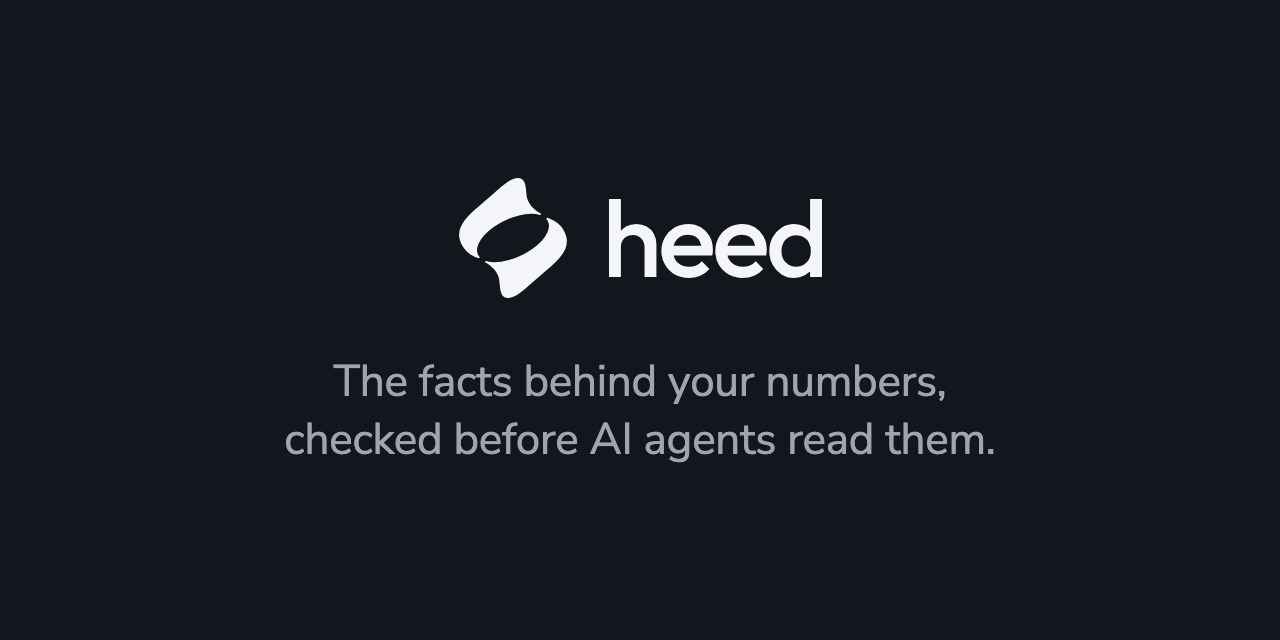
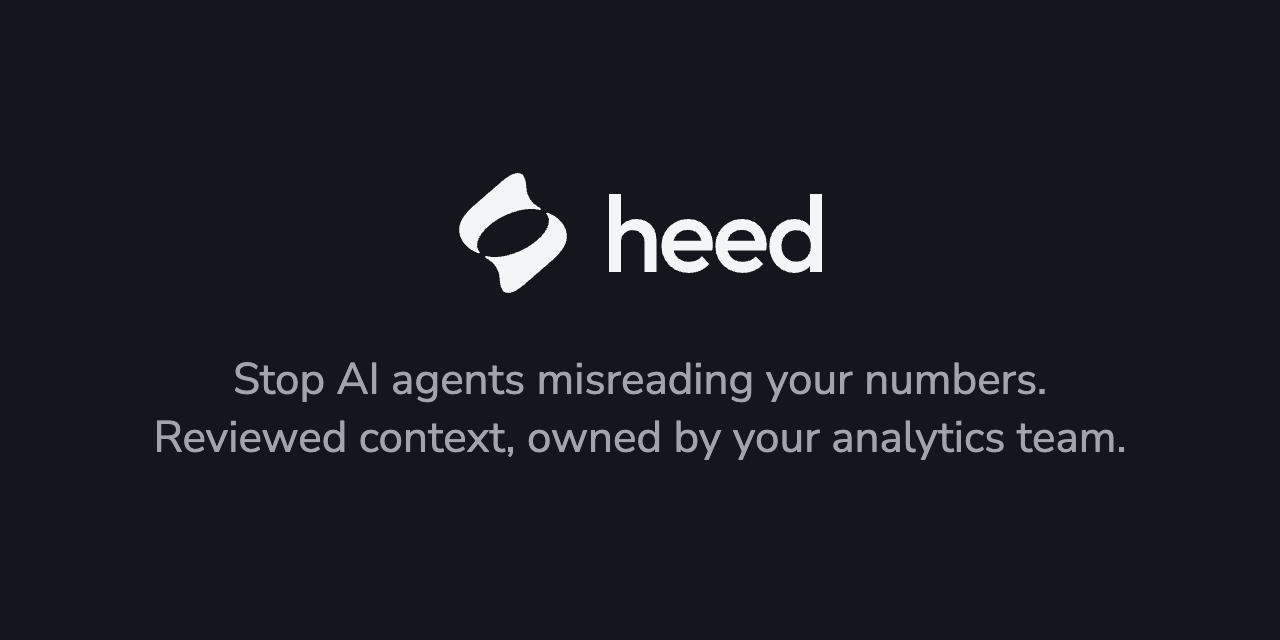
docs: make the repository ready to be found and tried
Rewrite the README's first screen, proof, quick start and status, lead
CONTRIBUTING with the connector guide, add a connector issue template,
and replace the social preview. The quick start pulls the published
images through compose.images.yaml, because building them takes far
longer than the rest of the first start.

diff --git a/README.md b/README.md
@@ -5,16 +5,16 @@
   <img alt="Heed" src="docs/images/heed-lockup-light.svg" height="56">
 </picture>
 
-### The context behind your numbers, checked before AI agents read them.
+### Stop AI agents misreading your numbers.
 
-Heed is a library of checked context that AI agents read before they answer questions about your data.<br>
-People write down what the numbers don't show, the owner of each domain checks it and publishes it,<br>
-and agents get only what was published, each item with its source.
+Heed is a reviewed context layer for analytics teams and their agents.<br>
+The people who own the data write down what the numbers don't show,<br>
+and agents read it over MCP before they answer, with its source and its owner.
 
-<!-- Live demo: when the hosted mock site is up, put this at the start of the link row below:
+<!-- Live demo: when the hosted demo is up, put this at the start of the link row below:
 [**Live demo**](https://LIVE-DEMO-ADDRESS) &nbsp;·&nbsp; -->
 
-[Quick start](#quick-start) &nbsp;·&nbsp; [How it works](#how-it-works) &nbsp;·&nbsp; [Docs](#docs) &nbsp;·&nbsp; [Connect Claude Code](#connect-claude-code) &nbsp;·&nbsp; [Contributing](CONTRIBUTING.md)
+[Quick start](#quick-start) &nbsp;·&nbsp; [Proof](#proof) &nbsp;·&nbsp; [How it works](#how-it-works) &nbsp;·&nbsp; [Status](#status) &nbsp;·&nbsp; [Docs](#docs) &nbsp;·&nbsp; [Contributing](CONTRIBUTING.md)
 
 [![License: Apache-2.0](https://img.shields.io/badge/license-Apache--2.0-blue.svg)](LICENSE)
 [![Node 26](https://img.shields.io/badge/node-26-339933.svg)](.nvmrc)
@@ -28,9 +28,9 @@ and agents get only what was published, each item with its source.
 
 ## Why Heed
 
-Company data shows what happened to a number. It rarely shows why. A market closed, a tool changed how it
-counts, a partner's data came in late. People know this. An agent can't see it, so it guesses, and a guess can
-sound sure of itself.
+Your metric has a definition. Why it moved doesn't. A market closed, a tool changed how it counts, a
+partner's data came in late. Your analytics team knows this. An agent reading the warehouse or the
+semantic layer can't see it, so it guesses, and a guess can sound sure of itself.
 
 > Orders in Norway fell to almost nothing after 4 August.
 >
@@ -40,6 +40,20 @@ sound sure of itself.
 
 _An illustration of the difference, not a transcript._ The demo data belongs to an invented outdoor-gear
 retailer that sells in twelve real countries.
+
+## Proof
+
+Each of these is held by a test in this repository, so you can read it, run it, or try it on the demo.
+
+| What Heed promises                         | What shows it                                                                                                                                                                                                 |
+| ------------------------------------------ | ------------------------------------------------------------------------------------------------------------------------------------------------------------------------------------------------------------- |
+| Agents read only what an owner published   | The database role that serves agents can't read the table of versions, drafts included: `permission denied` ([`tests/integration/mcp.test.ts`](tests/integration/mcp.test.ts))                                |
+| The answer above is real                   | CI starts the demo, asks that question in a browser and expects **Checked** with the customs rule ([`tests/e2e-seed/demo.spec.ts`](tests/e2e-seed/demo.spec.ts))                                              |
+| The right context gets delivered           | All 53 questions of the [golden set](db/seed/golden-set.yml) run in CI with no model, and each must get the items it expects ([`tests/integration/golden-set.test.ts`](tests/integration/golden-set.test.ts)) |
+| Nothing is filled in when nothing is known | Every answer starts with one of six [answer lines](docs/help/answer-lines.md). Golden questions with nothing written down must come back Not found                                                            |
+
+Heed doesn't yet have a measured number for how much better an agent answers with it than without it.
+[Status](#status) says what is and isn't done.
 
 ## How it works
 
@@ -53,23 +67,33 @@ retailer that sells in twelve real countries.
 4. **Gaps come back.** A question that keeps finding nothing becomes a Not found card in the owner's Inbox,
    counted by topic, never by who asked.
 
-Heed holds context, not numbers. [Cube](https://cube.dev) defines your metrics and returns the figures; a context
-item points to them.
+Heed holds context, not numbers. Your semantic layer defines the metrics and returns the figures; a context item
+points to them. Heed reads definitions from [Cube](docs/connectors/cube.md) and
+[dbt MetricFlow](src/connectors/dbt-metricflow/README.md), and turns documents from Markdown in Git and Google
+Drive into suggestions for owners. [Writing a connector](docs/connectors/authoring.md) adds another tool.
 
 ## Quick start
 
-You need Docker, or Node 26 with npm.
+You need Docker:
 
 ```sh
 git clone https://github.com/Fredehagelund92/heed.git && cd heed
-docker compose up        # the service with demo data: http://localhost:8080
-npm ci && npm run dev    # or the app on mock data, no database: http://localhost:5173
+docker compose -f compose.yaml -f compose.images.yaml up
 ```
 
-Both open on the demo of an invented outdoor-gear retailer: people, domains and context items, with their
-history, suggestions waiting for review and what agents asked over the past weeks. Sign in as any demo
-person: Jon Abara owns Sales, Ravi Kapoor is the admin. Nothing leaves your computer, and no AI service is
-called. Stop with Ctrl+C; `docker compose down --volumes` also removes the data.
+The first start pulls the published images and loads the demo, which takes about two minutes. Then open
+<http://localhost:8080> and sign in as any demo person: Jon Abara owns Sales, Ravi Kapoor is the admin.
+
+The demo is an invented outdoor-gear retailer: people, domains and context items, with their history,
+suggestions waiting for review and what agents asked over the past weeks. Nothing leaves your computer, and no
+AI service is called. Stop with Ctrl+C; `docker compose down --volumes` also removes the data.
+
+Two other ways in:
+
+- **No Docker, under a minute.** With Node 26, `npm ci && npm run dev` opens the app on mock data at
+  <http://localhost:5173>. It has no database and no MCP server.
+- **The code in this checkout.** `docker compose up` builds the images here, which takes far longer. The
+  published images are the latest release, so use this for anything merged since.
 
 To choose how to run Heed for your own team, see [Where to run Heed](docs/where-to-run.md). To keep it running
 here, back it up, upgrade it or roll an upgrade back, see [Self-host Heed on one computer](docs/self-hosting.md).
@@ -81,7 +105,7 @@ sign-in: see [Run the image in production mode](docs/operations.md#run-the-image
 
 ### Connect Claude Code
 
-With the service running (`docker compose up`):
+With the demo running:
 
 ```sh
 claude mcp add --transport http heed http://localhost:3000/mcp
@@ -99,7 +123,8 @@ demo person and **Allow**. Ask _"How did orders in Norway change in October 2026
 
 ### Use your own data
 
-Heed reads metric and dimension names from a [Cube](https://cube.dev) model, as files, and never writes to it:
+Heed reads metric and dimension names from your semantic layer, and never writes to it. For a
+[Cube](https://cube.dev) model, name its folder:
 
 ```sh
 CUBE_MODEL_DIR=/path/to/your/cube/model docker compose up
@@ -109,6 +134,10 @@ With your own model Heed starts empty, with no demo data. Sign in as Ravi Kapoor
 `db/seed/people.local.yml`, and add your domains in Settings, under Domains and owners. On a Mac the
 folder must be one Docker shares, or Heed refuses to start and says so. See
 [the Cube connector](docs/connectors/cube.md).
+
+For dbt, Heed reads the `semantic_manifest.json` that `dbt parse` writes, from a link, object storage, a Git
+repository or a folder: see [the dbt MetricFlow connector](src/connectors/dbt-metricflow/README.md). It needs
+this checkout, which is ahead of the latest release.
 
 ## What you get
 
@@ -141,8 +170,8 @@ folder must be one Docker shares, or Heed refuses to start and says so. See
 - **Gaps and saved questions.** Questions that found nothing are counted by topic, so people write what's
   missing. Saved questions are answered again after every change, so a publish that makes an answer worse is
   seen at once. Heed never records who asked.
-- **Stays in step with Cube.** When a definition an item relies on changes or disappears, the item is marked for
-  its owner to check.
+- **Stays in step with your semantic layer.** When a definition an item relies on changes or disappears, the item
+  is marked for its owner to check.
 
 ## How it fits together
 
@@ -155,7 +184,7 @@ folder must be one Docker shares, or Heed refuses to start and says so. See
 | A wiki or shared document        | Agents can't see it, or read a page nobody has checked in a year | Short, dated context with a source and an owner, delivered over MCP            |
 | Notes in `CLAUDE.md` or a prompt | One copy per tool, no review, no history                         | One library for every agent, with review, checks and a history                 |
 | Search over your documents       | Returns text that looks like the question, with no owner or date | Returns the context that applies to the metric, market and dates, or says none |
-| Your semantic layer              | Defines the number, not why it moved                             | Sits beside it: Cube gives the figure, Heed gives the context                  |
+| Your semantic layer              | Defines the number, not why it moved                             | Sits beside it: the layer gives the figure, Heed gives the context             |
 
 Heed is not a data tool: it stores no numbers. When an admin switches figures on for an integration, Ask reads
 one figure from it when someone asks, and keeps it nowhere. It is not a wiki: every context item is short, has a
@@ -174,9 +203,12 @@ source, and its owner checks it. It doesn't watch people: it counts questions by
 |                                                         | [Develop Heed](docs/development.md) and [its tests](docs/testing.md)                         |
 |                                                         | [Security, scanning and the restore drill](docs/security.md)                                 |
 
-The help pages are also the app's own Docs, at `/docs`, and a static site (`npm run docs:build`).
-[Requirements](docs/requirements.md) says what Heed must do, and [Writing a connector](docs/connectors/authoring.md)
-how to read another source.
+<!-- Docs site: when it is published, add this line:
+Read these as a site at [fredehagelund92.github.io/heed](https://fredehagelund92.github.io/heed/). -->
+
+The help pages are also the app's own Docs, at `/docs`, and [the docs site](apps/docs/README.md), which isn't
+published yet: `npm run site:dev` runs it on your computer. [Requirements](docs/requirements.md) says what Heed must
+do, and [Writing a connector](docs/connectors/authoring.md) how to read another source.
 
 The [documentation index](docs/README.md) lists every page. The [product page](docs/product.md) and the
 [design contract](docs/design/design-contract.md) say what the Heed v1 web app is and how it looks.
@@ -185,22 +217,39 @@ The clickable mockup is the design the app was built from, kept as a reference i
 
 ## Status
 
-Heed is **pre-1.0**. Expect rough edges and breaking changes.
+Heed is **pre-1.0**, and [v0.1.0](https://github.com/Fredehagelund92/heed/releases/tag/v0.1.0) is its first release.
+It is for trying on one computer, not for production use. Expect rough edges and breaking changes.
 
-- It runs on one computer, or on one container host. `docker compose up` uses the demo sign-in: anyone can be an
-  admin, so keep it off the internet. Company sign-in with OpenID Connect is in
-  [Run the image in production mode](docs/operations.md#run-the-image-in-production-mode) and
-  [How AI sign-in works](docs/ai-sign-in.md).
-- Agents on your computer connect today. Agents that run in the cloud need Heed at an address on the internet;
-  see [Connect an agent](docs/help/connect-an-agent.md).
-- The demo runs on scripted mock models and spends nothing. Ask's words and the test runs can use Anthropic,
-  directly or through Vercel's AI Gateway, chosen by an admin.
+**Works today**
+
+- The whole loop on the demo: write, review, publish, read over MCP, and gaps back to the owner.
+- Definitions from Cube and dbt MetricFlow, documents from Markdown in Git and Google Drive, and agents on your
+  computer over MCP, such as Claude Code.
+- Company sign-in with OpenID Connect ([Run the image in production mode](docs/operations.md#run-the-image-in-production-mode)
+  and [How AI sign-in works](docs/ai-sign-in.md)).
+
+**Not there yet**
+
+- **No measured result.** Heed has an [evaluation runner](docs/evaluations.md) and a golden set, but no published
+  figure for how much better an agent answers with Heed than without it.
+- **No hosted demo and no published docs site.** Run the demo yourself, and read the docs in this repository.
+- **Not tested on a named cloud host.** CI starts the images in production mode, but nobody has yet run them on AWS,
+  Railway or Fly ([Where to run Heed](docs/where-to-run.md)).
+- **Agents in the cloud** need Heed at an address on the internet: see [Connect an agent](docs/help/connect-an-agent.md).
+
+**Good to know**
+
+- The Docker demo uses the demo sign-in: anyone can be an admin, so keep it off the internet.
+- The demo runs on scripted mock models and spends nothing. Ask's words and the test runs can use Anthropic, directly
+  or through Vercel's AI Gateway, chosen by an admin.
 - Built with TypeScript on Node 26, Fastify, PostgreSQL 18, React 19 and the official MCP SDK.
 
 ## Contributing
 
-Open an issue first for anything bigger than a small fix, then send a pull request. [CONTRIBUTING.md](CONTRIBUTING.md)
-says how, and `npm run check` runs the type check, lint, format check and unit tests. Please follow the
+**The most useful change you can send is a connector.** [Writing a connector](docs/connectors/authoring.md) is
+written so a coding agent can follow it from top to bottom, and [CONTRIBUTING.md](CONTRIBUTING.md) has the prompt
+to start from. For anything else, open an issue first if it is bigger than a small fix, then send a pull request.
+`npm run check` runs the type check, lint, format check and unit tests. Please follow the
 [code of conduct](CODE_OF_CONDUCT.md).
 
 ## Security

diff --git a/CONTRIBUTING.md b/CONTRIBUTING.md
@@ -1,10 +1,46 @@
 # Contributing
 
-Thanks for helping. This page says how to send a change, then how to write code that passes the
-checks.
+Thanks for helping. This page says where you can help, how to send a change, then how to write
+code that passes the checks.
 
 Everyone here follows the [code of conduct](CODE_OF_CONDUCT.md). Found a security problem? Don't
 open an issue: [SECURITY.md](SECURITY.md) says how to tell us privately.
+
+## Ways to help
+
+1. **Add a connector.** This is the most useful change you can send. A connector teaches Heed to
+   read a tool your team uses, and it stays inside one folder. [Writing a connector](docs/connectors/authoring.md)
+   is written so a coding agent can follow it from top to bottom: see
+   [Write a connector with a coding agent](#write-a-connector-with-a-coding-agent).
+2. **Pick up an issue.** Look for **good first issue** and **help wanted**:
+   [Finding something to work on](#finding-something-to-work-on) says what they mean.
+3. **Try the demo and tell us what confused you.** Run the
+   [Quick start](README.md#quick-start), then open an issue. A step that didn't work, or a word you
+   had to guess, counts as a bug.
+4. **Fix the docs.** Every page is Markdown in `docs`. If a page is wrong, send the fix. A small fix
+   needs no issue.
+
+### Write a connector with a coding agent
+
+The guide holds everything a connector needs: the contract, the decisions to make first, the steps,
+the conformance kit and the review checklist. `src/connectors/_template` is a working connector that
+passes the kit, and [dbt MetricFlow](src/connectors/dbt-metricflow/README.md) was built by following
+the guide. Open an issue with the **A connector** template first, so nobody builds the same one
+twice, then give your agent this:
+
+```text
+Add a definitions connector for <the tool> to Heed.
+Read docs/connectors/authoring.md and follow it from top to bottom.
+Copy src/connectors/_template. Keep the tool's name inside the new folder.
+Use invented fixtures only, and make no live calls in tests.
+Finish with every item of the guide's review checklist done, and with
+npm test, npm run typecheck, npm run lint and npm run test:integration passing.
+```
+
+Read what it wrote before you send it, above all `definitions.json`: that file is what the
+connector reads from the tool. A connector needs no change to the app, so a diff outside the new
+folder, the two connector lists and the tests is a sign to stop and look. To suggest a tool without
+building it, use the same issue template.
 
 ## How to send a change
 
@@ -21,8 +57,6 @@ open an issue: [SECURITY.md](SECURITY.md) says how to tell us privately.
 
 You send your contribution under the Apache License 2.0, as section 5 of [LICENSE](LICENSE)
 says. You keep the copyright in your work.
-
-Not sure where to start? See [Finding something to work on](#finding-something-to-work-on).
 
 ## Set up
 
@@ -164,8 +198,8 @@ Issues carry labels that say how ready they are:
   need to ask first; say in a comment that you are taking it.
 - **help wanted**: agreed in principle, and a maintainer would welcome a pull request. Comment with
   your plan before you start if it is more than a day's work.
-- **bug** and **enhancement**: what the issue templates add. An enhancement without a label above
-  is still being shaped; discuss before you build.
+- **bug**, **enhancement** and **connector**: what the issue templates add. An enhancement without
+  a label above is still being shaped; discuss before you build.
 
 If your idea has no issue yet, open one and make the case.
 

diff --git a/.github/pull_request_template.md b/.github/pull_request_template.md
@@ -30,5 +30,6 @@
 - [ ] Shared components you reused, and any token you added, are named here: <!-- e.g. Button, Sheet; token `--mark-add` -->
 - [ ] A new migration takes the number after the latest on `main`, and generated files (`npm run api:generate`) are up to date
 - [ ] The first load stays within its budget (`npm run size`; see CONTRIBUTING)
+- [ ] A new connector has every item of the [review checklist](https://github.com/Fredehagelund92/heed/blob/main/docs/connectors/authoring.md#review-checklist) done
 
 <!-- Contributions are licensed under Apache-2.0, as LICENSE says. -->

diff --git a/docs/self-hosting.md b/docs/self-hosting.md
@@ -19,7 +19,7 @@ git clone https://github.com/Fredehagelund92/heed.git && cd heed
 docker compose up -d --wait   # builds the images, prepares the database, waits until all is ready
 ```
 
-Then open http://localhost:8080. The first start takes a few minutes, as it builds both images and loads the demo.
+Then open http://localhost:8080. The first start builds both images and loads the demo, which can take ten minutes or more.
 
 To check it, `docker compose ps` shows each part `healthy`, and `docker compose logs heed` shows what the start did.
 
